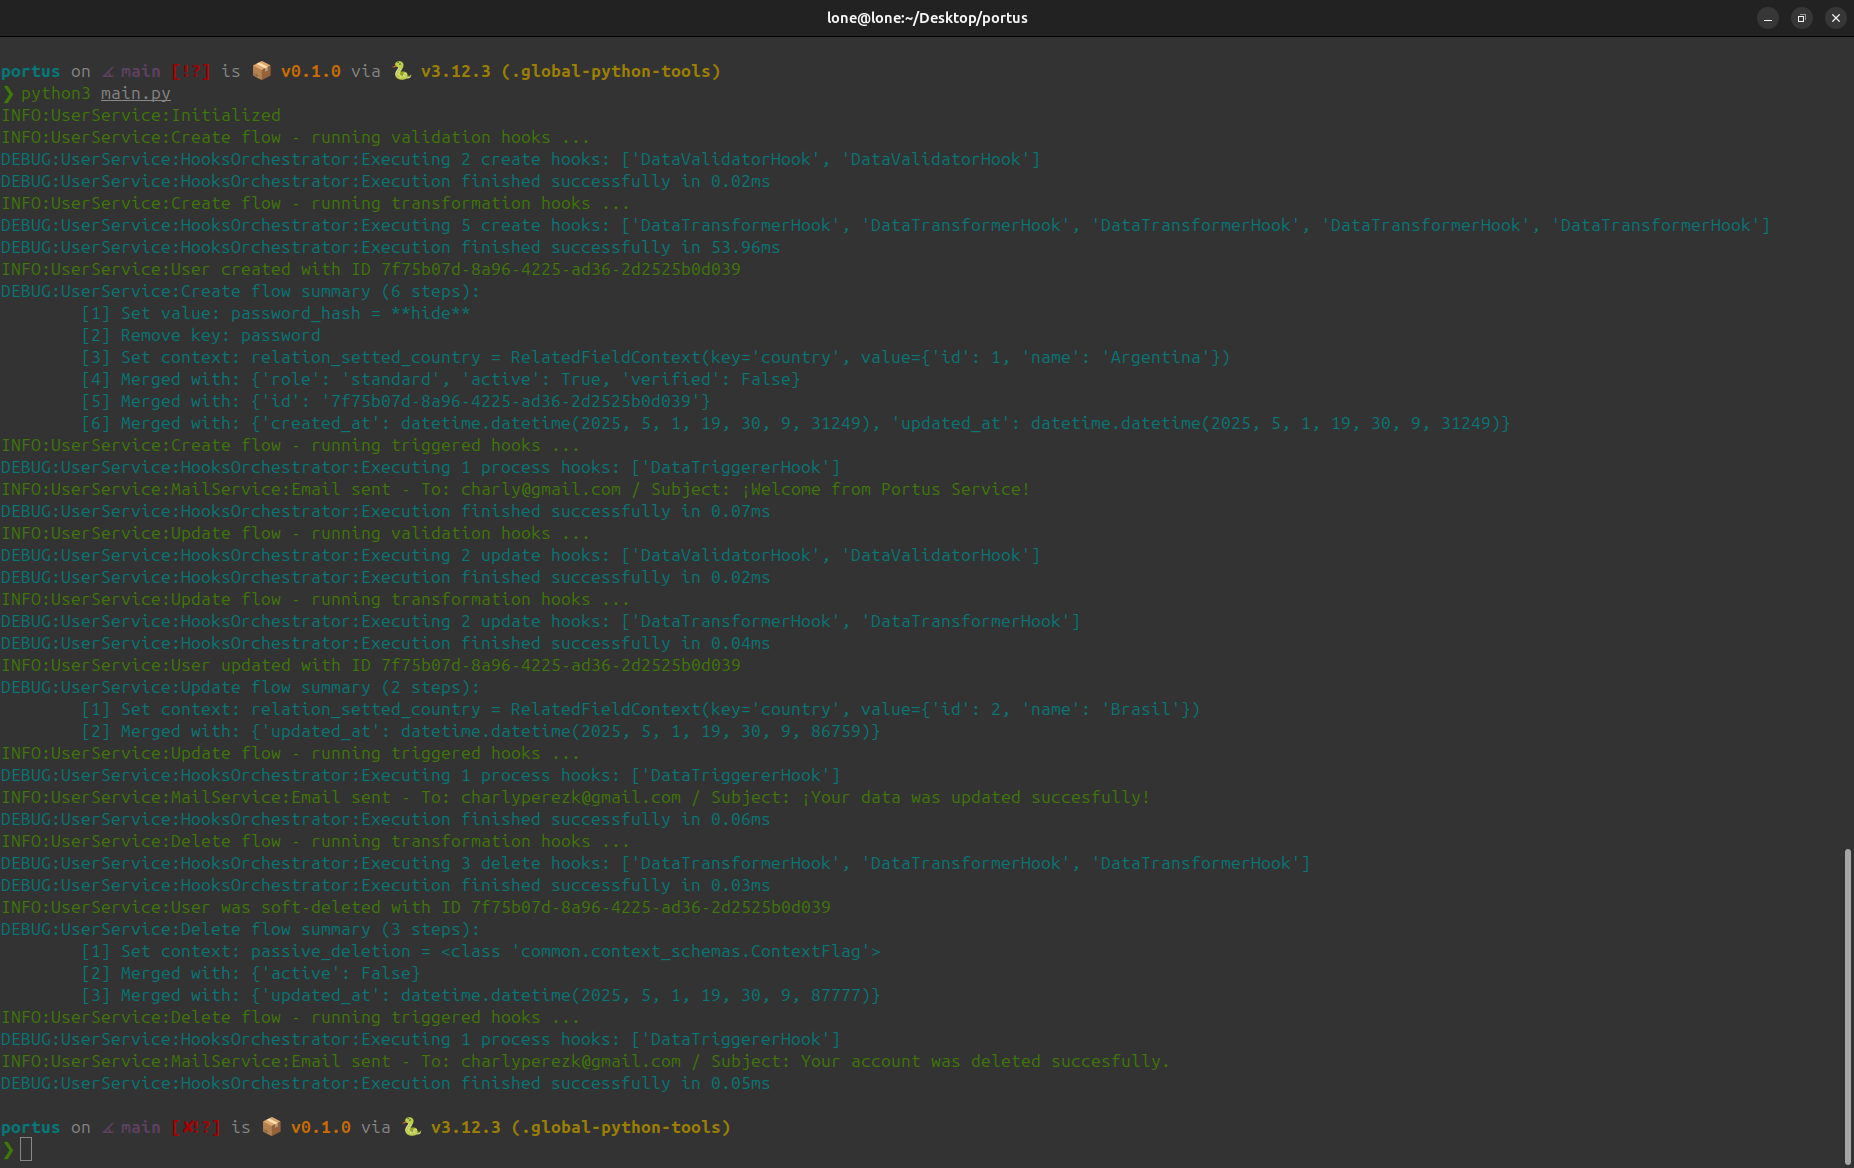
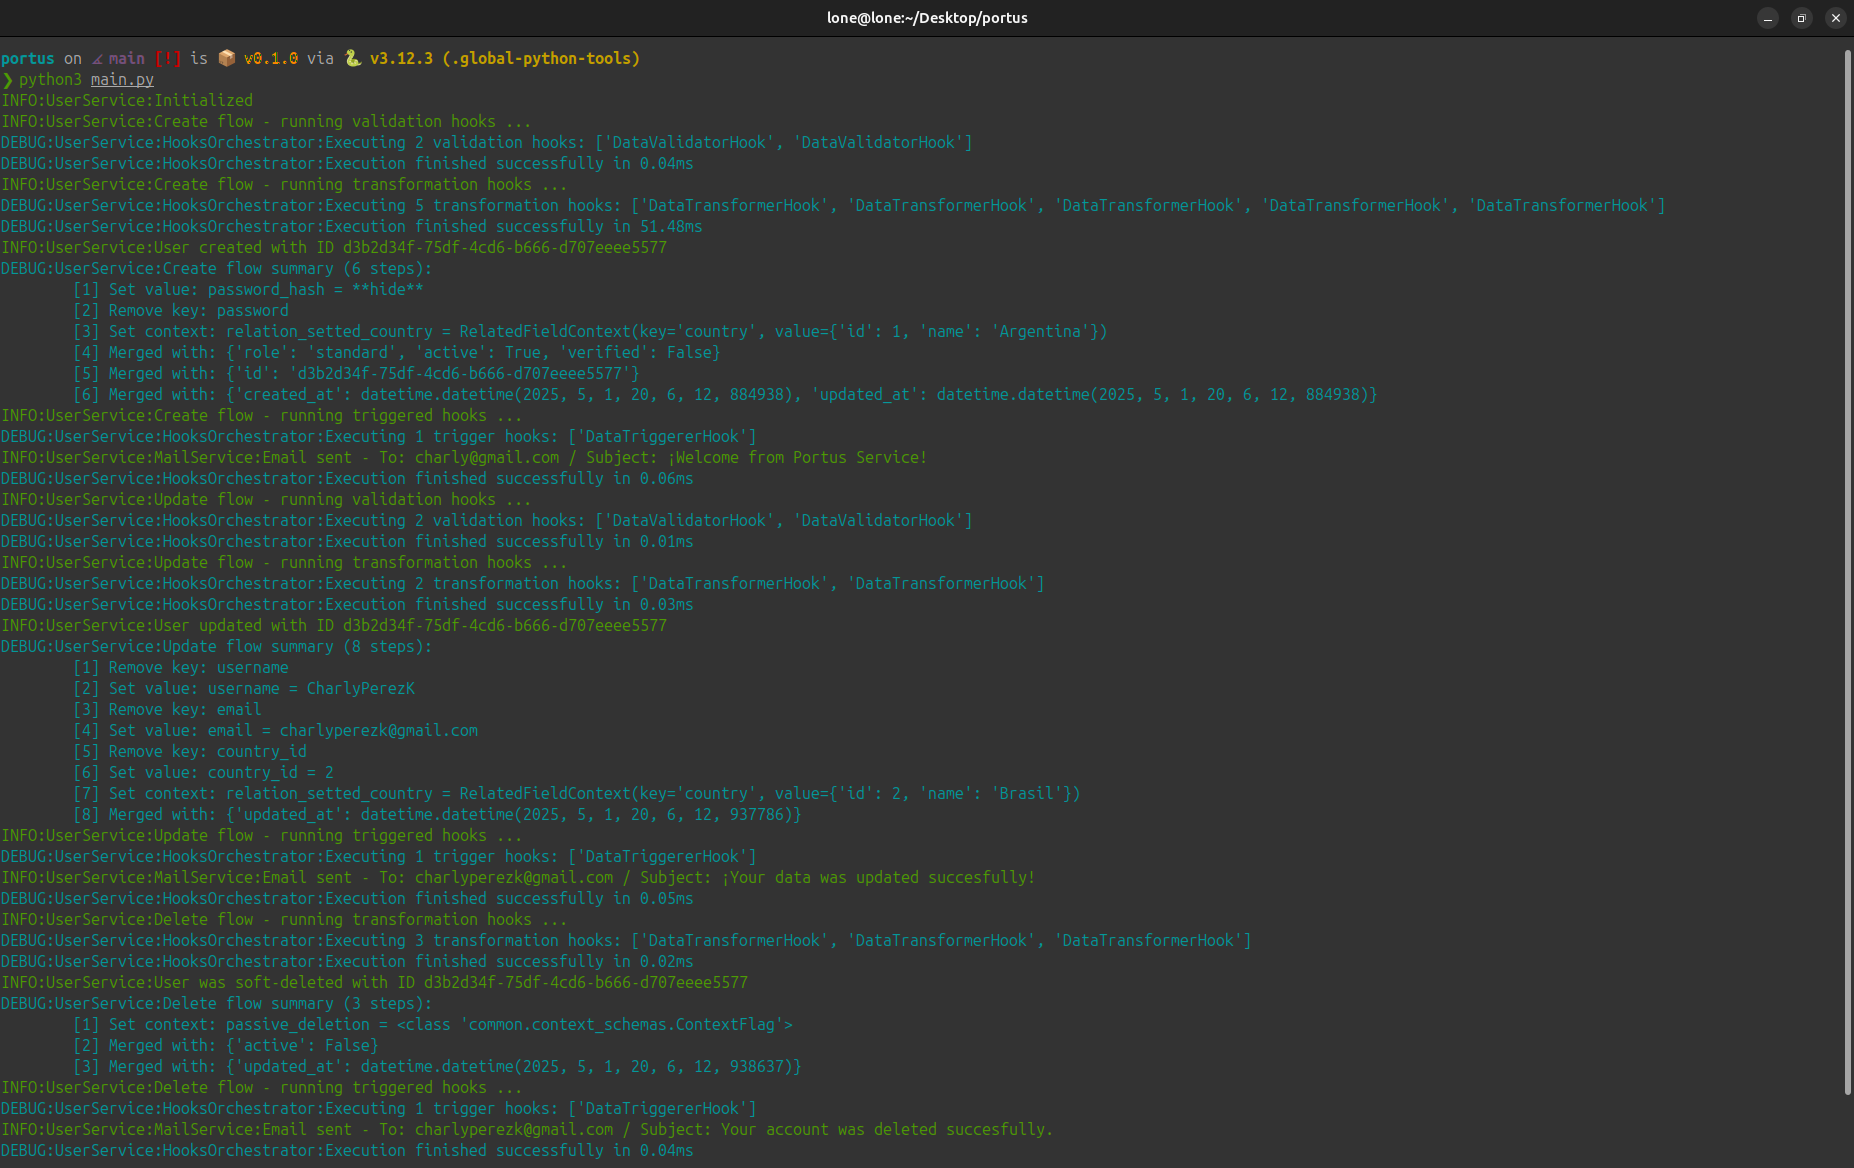
fix(trace): resolved minor issue in internal data trace

diff --git a/mappers/default.py b/mappers/default.py
@@ -48,11 +48,8 @@ class DefaultMapper(Mapper[TEntity, TCreateDTO, TReadDTO, TInternalData]):
         return self.from_internal_data(merged_data)
     
     def define_unset_fields_from_entity(self, entity: TEntity, dto: TCreateDTO) -> TInternalData:
-        dto_dict = dto.model_dump()
-        dict_of_unsetted = {k: v for k, v in dto_dict.items() if not v}
-        data_obtained_from_entity = {k: v for k, v in self.to_dict(entity).items() if k in dict_of_unsetted}
-        data = self.internal_data_cls(dto_dict)
-        
-        if data_obtained_from_entity:
-            data = data.merge(data_obtained_from_entity)
-        return data
+        internal_data = self.internal_data_cls(self.to_dict(entity))
+        dto_dict = dto.model_dump(exclude_unset=True)
+        for k, v in dto_dict.items():
+            internal_data = internal_data.without_value(k).with_value(k, v)
+        return internal_data

diff --git a/example/user/service/user_service.py b/example/user/service/user_service.py
@@ -67,9 +67,9 @@ class UserService(CRUDService[str, User, UserCreateDTO, UserReadDTO, InternalDat
         orchestrator = self.build_hook_orchestrator(hooks=hooks, logger=orchestrator_logger)
 
         if step in ("validation", "transformation"):
-            return await orchestrator.run(data, action)
+            return await orchestrator.run(data, step)
         else:
-            await orchestrator.run(data)
+            await orchestrator.run(data, "trigger")
 
     async def _run_before_create_hooks(self, data: InternalData) -> InternalData:
         self.log_info("Create flow - running validation hooks ...")
